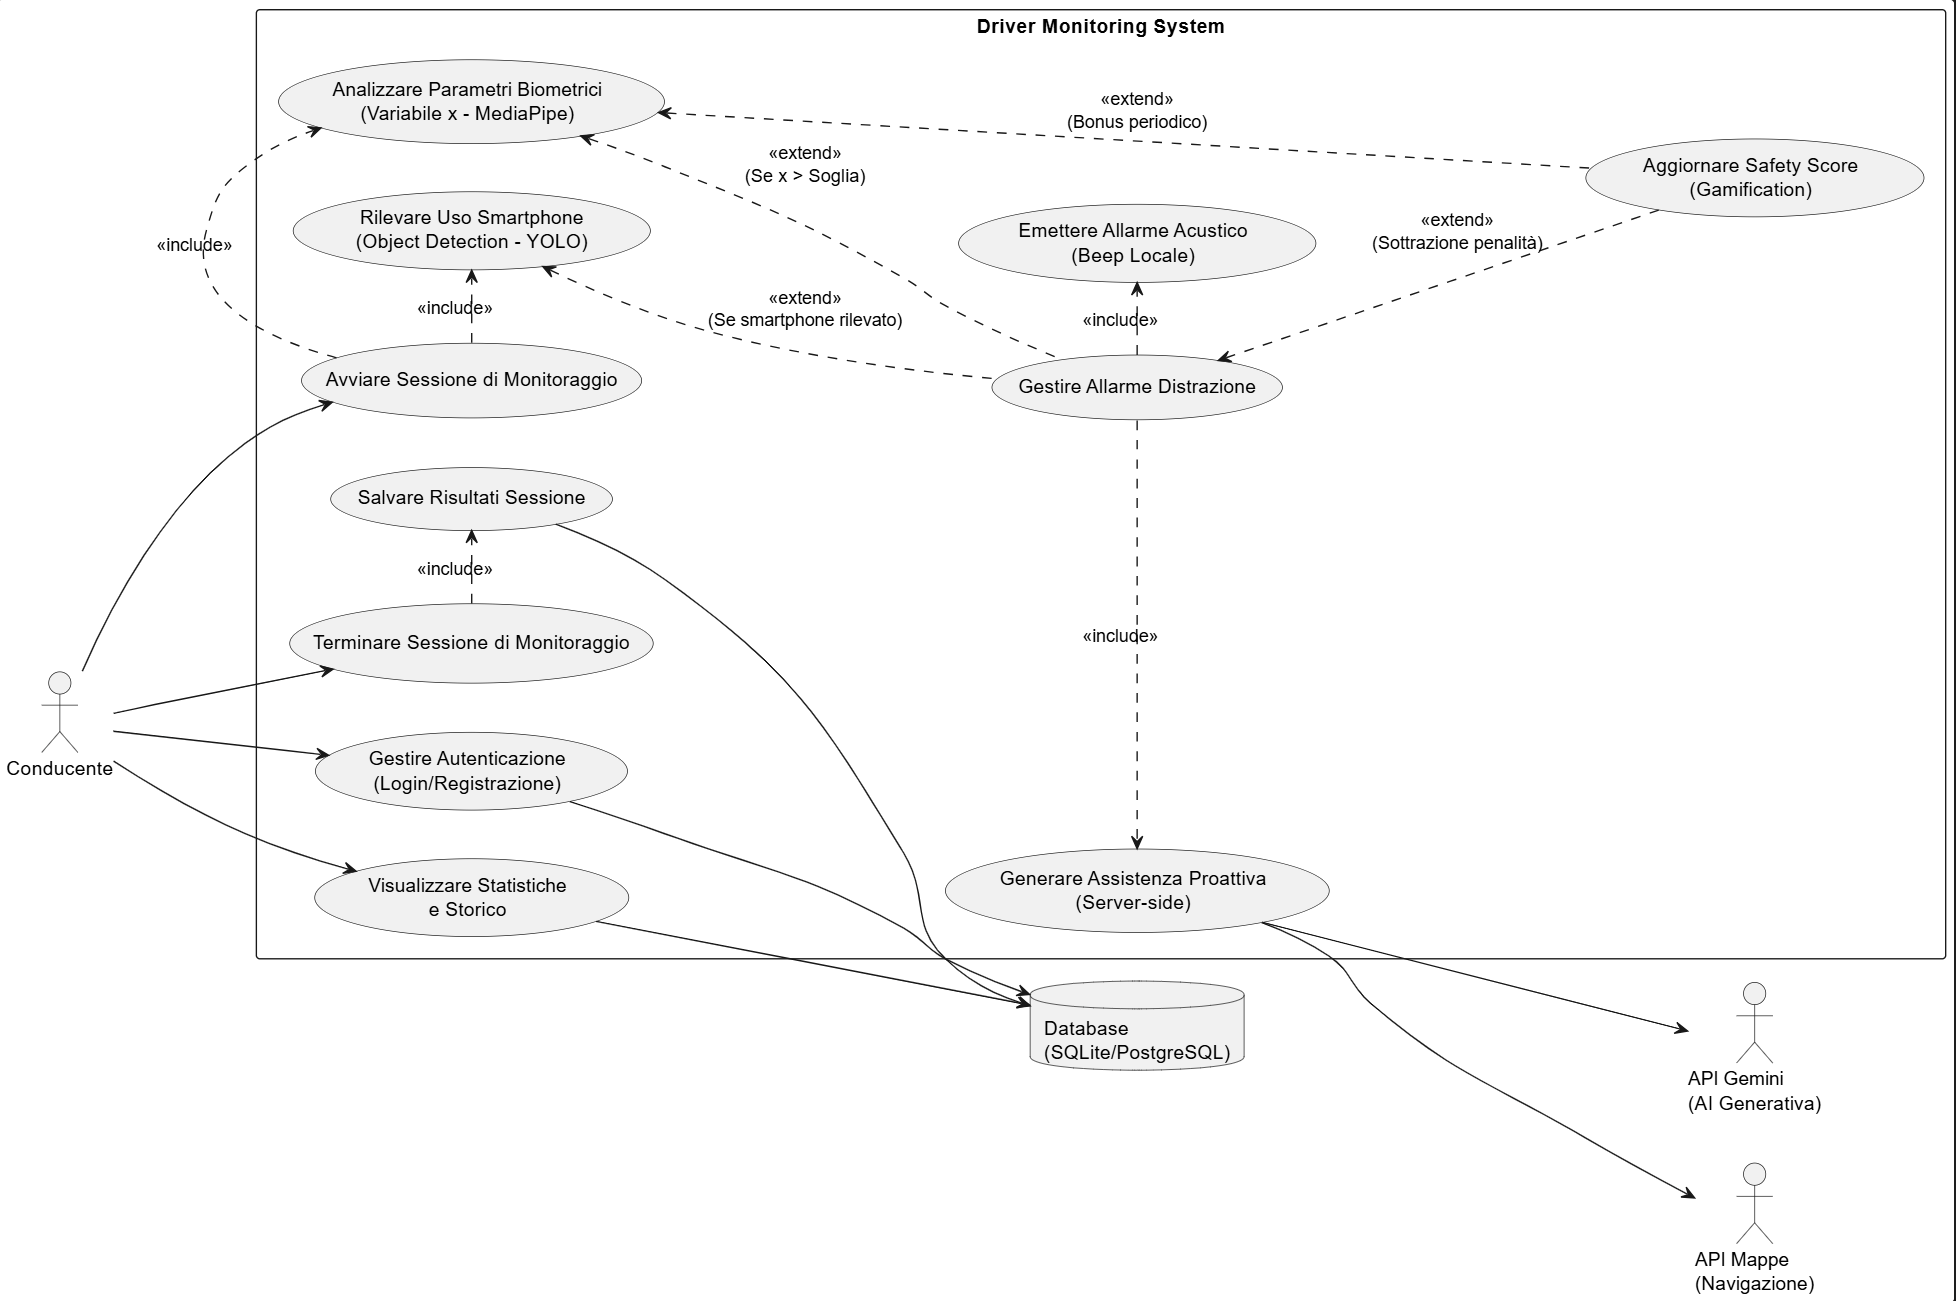
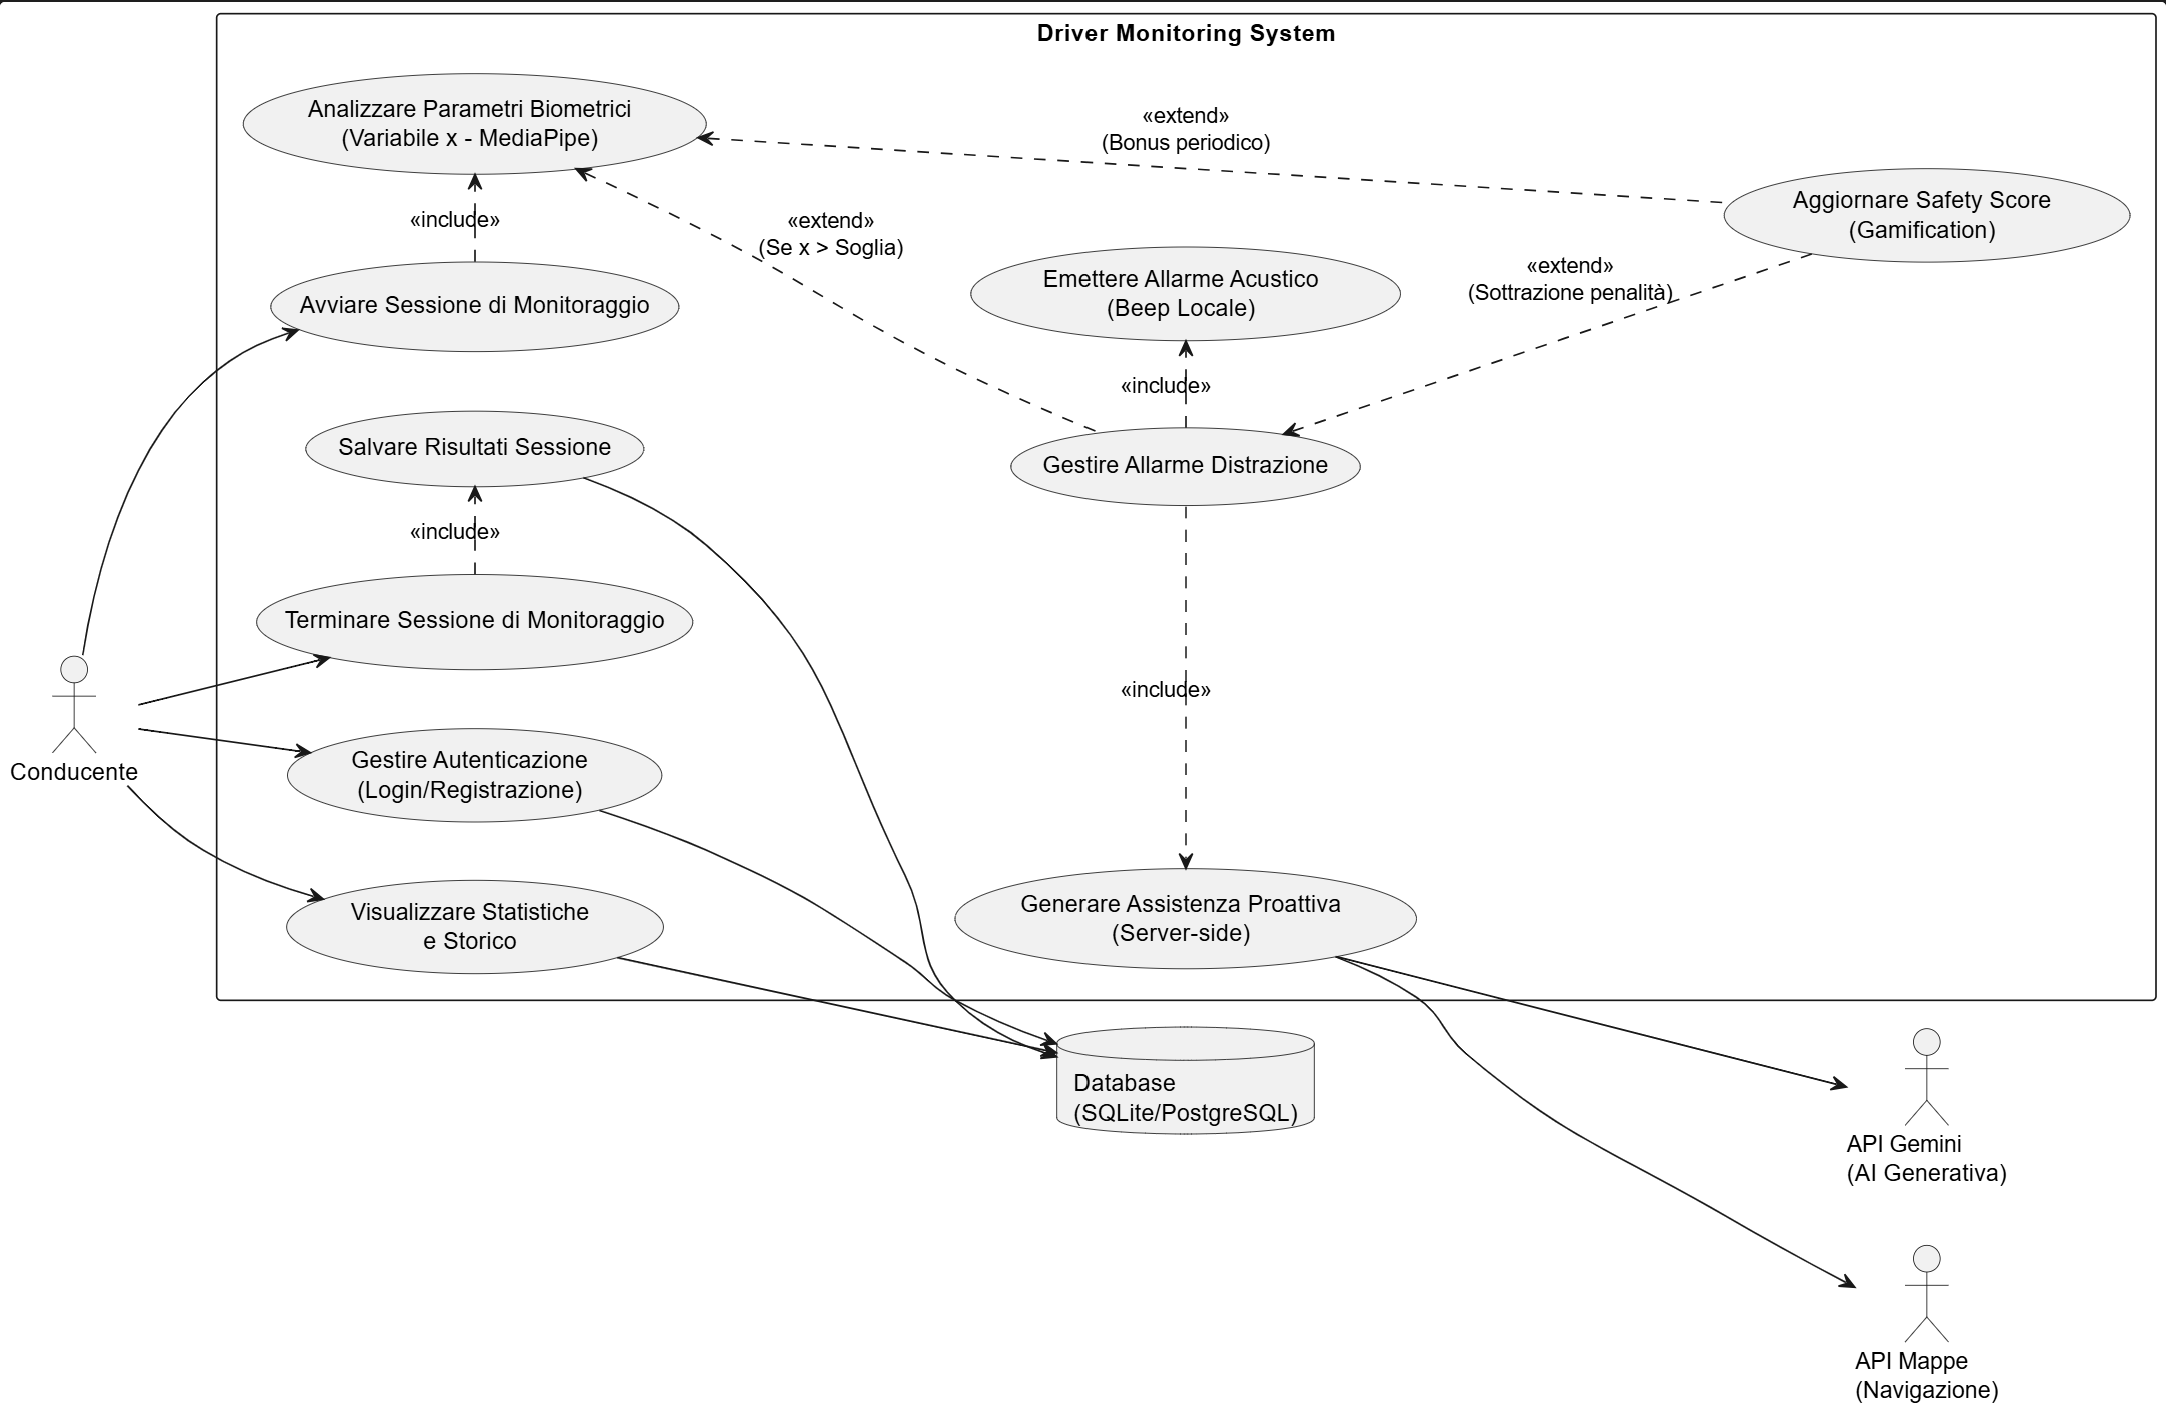
refactoring e miglioramento frontend

diff --git a/frontend/src/App.jsx b/frontend/src/App.jsx
@@ -32,6 +32,13 @@ function calculate_ear(landmarks, eye_indices) {
     return (v1 + v2) / (2.0 * h)
 }
 
+// Funzione per formattare i secondi in Minuti:Secondi
+const formatTime = (totalSeconds) => {
+    const m = Math.floor(totalSeconds / 60).toString().padStart(2, '0');
+    const s = (totalSeconds % 60).toString().padStart(2, '0');
+    return `${m}m ${s}s`;
+};
+
 const playAlertBeep = () => {
     const audio = new Audio('/beep.mp3');
     audio.play();
@@ -40,6 +47,8 @@ const playAlertBeep = () => {
 // === COMPONENTE PRINCIPALE ===
 export default function App() {
   // Stati UI
+  const [sessionStatus, setSessionStatus] = useState("idle"); 
+  const [distractionCount, setDistractionCount] = useState(0);
   const [status, setStatus] = useState("Inizializzazione...");
   const [variableX, setVariableX] = useState(0);
   const [isSleeping, setIsSleeping] = useState(false);
@@ -53,12 +62,45 @@ export default function App() {
   const videoRef = useRef(null);
   const canvasRef = useRef(null);
   const wsRef = useRef(null);
+  const cameraRef = useRef(null);
   const closedStartTimeRef = useRef(null);
   const lastAlarmTimeRef = useRef(0);
   const lastDistractionTime = useRef(0); // <-- 1. Traccia l'orario dell'ultimo errore
+  const tripStartTimeRef = useRef(null); // <-- Riferimento per l'inizio del viaggio
+
+// --- FUNZIONE INTERRUTTORE ---
+  const toggleJourney = () => {
+    if (sessionStatus !== "active") {
+      // INIZIA IL VIAGGIO
+      setSafetyScore(100);
+      setDistractionCount(0);
+      setVariableX(0);
+      setTripDuration(0);
+      setAiFeedback("Nessuna anomalia rilevata.");
+      setRouteSuggestion(null);
+      setSessionStatus("active");
+      setStatus("Sensori e V2N Attivi");
+      
+      tripStartTimeRef.current = Date.now(); // Fa partire il timer
+      lastDistractionTime.current = Date.now(); 
+    } else {
+      // TERMINA IL VIAGGIO
+      setSessionStatus("finished");
+      setStatus("Viaggio Terminato");
+      
+      // Calcola i secondi totali trascorsi dall'inizio
+      if (tripStartTimeRef.current) {
+          const totalSeconds = Math.floor((Date.now() - tripStartTimeRef.current) / 1000);
+          setTripDuration(totalSeconds);
+      }
+    }
+  };
 
   // --- 1. WEBSOCKET ---
   useEffect(() => {   // Stabilisce la connessione WebSocket al backend FastAPI; viene eseguito una sola volta all'avvio di App
+    // BLOCCO: Ferma tutto se il viaggio non è "active"
+    if (sessionStatus !== "active") return;
+
     wsRef.current = new WebSocket('ws://localhost:8000/ws');
     wsRef.current.onopen = () => setStatus("Connesso al Server");
     wsRef.current.onclose = () => setStatus("Disconnesso");
@@ -69,14 +111,16 @@ export default function App() {
         setAiFeedback(response.voice_text);
         setRouteSuggestion(response.maps_route);
         setSafetyScore(prev => Math.max(0, prev - response.penalty));
+        setDistractionCount(prev => prev + 1);
         lastDistractionTime.current = Date.now(); 
       }
     };
     return () => wsRef.current.close();
-  }, []);
+  }, [sessionStatus]); // Rinnova la connessione solo quando cambia lo stato del viaggio
 
 // --- 3. IL TIMER DEL BONUS ---
 useEffect(() => {
+  if (sessionStatus !== "active") return; // <--- Ferma il timer se non sei in viaggio
   const bonusInterval = setInterval(() => {
     const now = Date.now();
     // Calcola i secondi passati dall'ultimo errore
